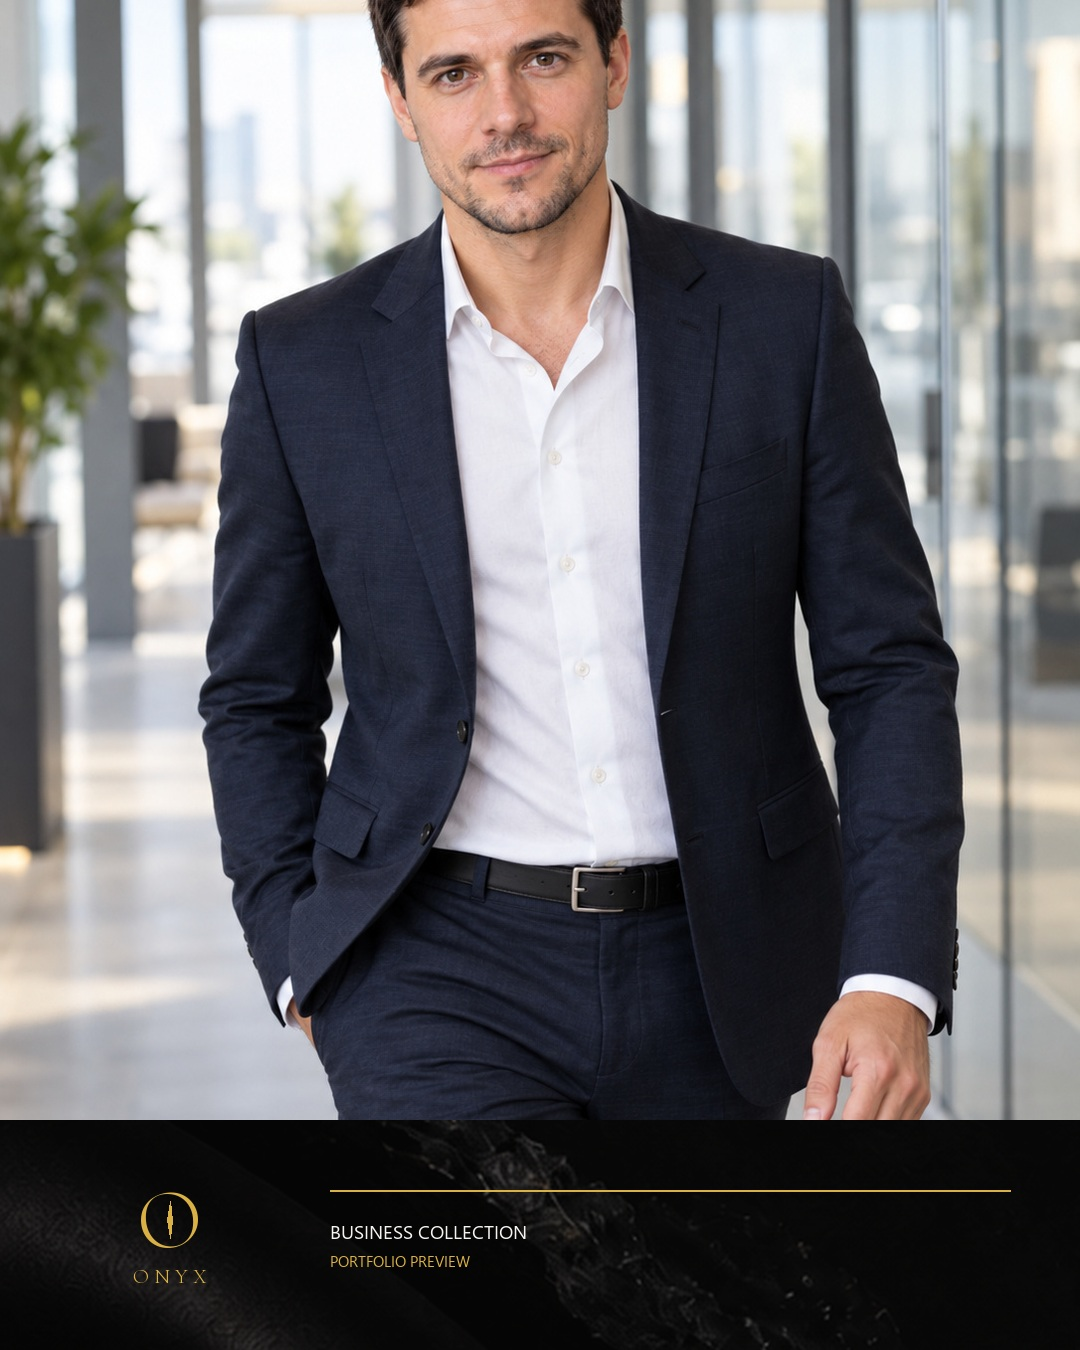
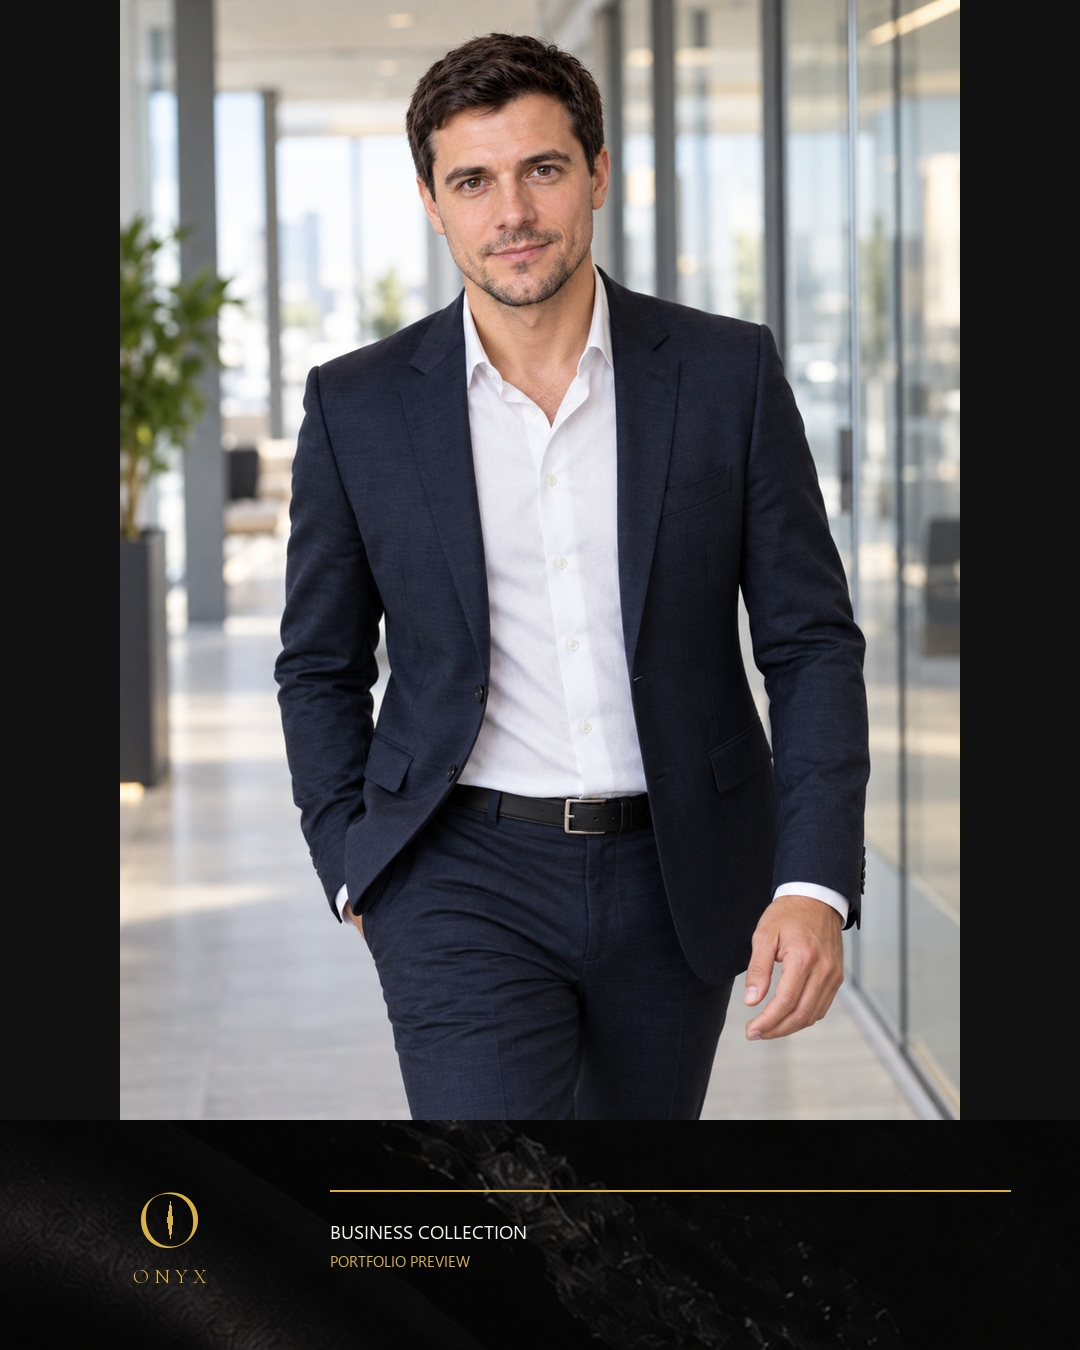
fix(brand): preserve full portrait framing and center monogram cut

diff --git a/13 Production/Brand/Logo/ONYX_MONOGRAM_APPROVAL_V1.md b/13 Production/Brand/Logo/ONYX_MONOGRAM_APPROVAL_V1.md
@@ -6,6 +6,10 @@ Use the monogram for avatars, favicons and compact marks. Use the lockup for cov
 
 Do not add glow, bevel, metallic gradients or a stone texture inside the production mark. The textured black-gold treatment belongs to presentation backgrounds only.
 
+## Frame QA rule
+
+The full source portrait must remain visible in portfolio cards. Never use a crop that removes the head or top of the subject to fit a frame. If the source aspect ratio does not fit, contain it with intentional side margins or expand the canvas; reject the card when the face is clipped.
+
 ## Presentation artwork
 
 `Presentations/ONYX_MONOGRAM_ONYX_SILK_PRESENTATION_V1.png` is an approved atmospheric treatment of the logo. It may be used for presentation covers, editorial collages, campaign moodboards and brand reveal materials. Keep the complete composition intact and do not extract its textured gold as production artwork.
